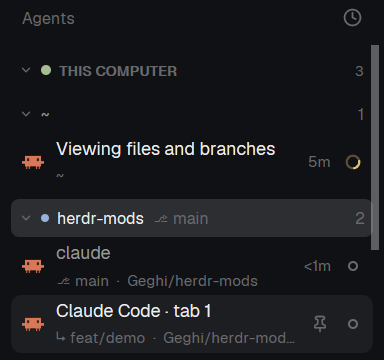
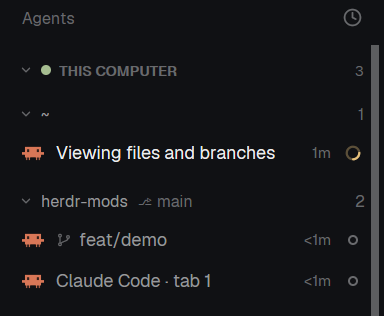
agents-by-repo: one line per agent, named after its branch; sync by copying

diff --git a/agents-by-repo/mods/my-agents/main.js b/agents-by-repo/mods/my-agents/main.js
@@ -423,20 +423,21 @@ export default class Agents extends View {
           cx.notify();
         })
         .child(svg(`mods/workspace-chrome/${isPinned ? "pin-off" : "pin"}.svg`).size(13));
-      // Line 1: what the agent is on (its tab or title). Line 2: where (branch · folder),
-      // with the space name too in the Pinned group, which has no space header.
+      // One line: the agent's branch when it is on one other than main/master, else its tab or title.
+      // The rest (title, space, folder) is in the tooltip.
       const pane = paneById.get(a.pane), sp = spaceById.get(a.space);
       const raw = label(a);
-      const name = /^\d+$/.test(raw) ? `${a.program?.name || "Agent"} · tab ${raw}` : raw || a.program?.name || a.address;
+      const title = /^\d+$/.test(raw) ? `${a.program?.name || "Agent"} · tab ${raw}` : raw || a.program?.name || a.address;
       const branch = pane?.branch || sp?.branch || "";
+      const onBranch = Boolean(branch) && !/^(main|master)$/.test(branch);
+      const name = onBranch ? branch : title;
       const folder = shortFolder(pane?.cwd || sp?.folder);
-      const fam = this.family?.info.get(a.space), mainId = fam ? this.family.mainOf.get(fam.repo) : a.space;
-      const sub = !isPinned && mainId && a.space !== mainId ? (sp?.name || a.space_name || "") : "";
-      const where = [isPinned ? (a.space_name || "") : "", sub ? `↳ ${sub}` : "", branch && branch !== sub ? `⎇ ${branch}` : "", folder].filter(Boolean).join("  ·  ");
+      const where = [onBranch ? title : "", a.space_name || "", branch ? `⎇ ${branch}` : "", folder].filter(Boolean).join("  ·  ");
       return h_flex()
         .id(`ag-${a.address}`)
+        .tooltip(where)
         .px(8)
-        .h(42)
+        .h(30)
         .flex_none()
         .rounded(8)
         .items_center()
@@ -456,9 +457,9 @@ export default class Agents extends View {
             this.folded.has(a.address) ? this.folded.delete(a.address) : this.folded.add(a.address);
             cx.notify();
           })).child(pic)))
-        .child(v_flex().flex_1().min_w(0).gap(1).items_stretch()
-          .child(div().w_full().min_w(0).truncate().text_size(12.8).text_color(idle ? t.muted : t.foreground).child(name))
-          .when(Boolean(where), el => el.child(div().w_full().min_w(0).truncate().text_size(11).text_color(t.dim).child(where))))
+        .child(h_flex().flex_1().min_w(0).gap(5).items_center()
+          .when(onBranch, el => el.child(svg("mods/workspace-chrome/branch.svg").size(12).flex_none().text_color(t.dim)))
+          .child(div().min_w(0).truncate().text_size(12.8).text_color(idle ? t.muted : t.foreground).child(name)))
         .when(subs.length > 0, el => el.child(fold(a, subs)))
         .when(this.hovered === a.address, el => el.child(pin))
         .when(this.hovered !== a.address && Boolean(when), el => el.child(div().flex_none().text_size(11).text_color(t.dim).child(duration(now - when))))

diff --git a/agents-by-repo/RECIPE.md b/agents-by-repo/RECIPE.md
@@ -1,7 +1,7 @@
 # Agents by repo
 
 The agents list, grouped so you always know what each agent is working on: by machine, then by
-the main repository, with the worktree and branch of each agent on its second line.
+the main repository, one compact line per agent named after the branch it is on.
 
 ![Agents by repo](preview.png)
 
@@ -12,10 +12,10 @@ the main repository, with the worktree and branch of each agent on its second li
   status.
 - **Project headers** under each machine: the main repo's name (the main checkout, not the worktree),
   its branch and the agent count. Spaces that aren't in a git repo get their own header.
-- **Agent rows**, two lines:
-  - first line: the agent icon, its title, how long it has been in its state, and a status dot
-    (working, done, blocked, idle);
-  - second line, dimmed: `↳ worktree-space · ⎇ branch · parent/folder`.
+- **Agent rows**, one line, 30 px: the agent icon, then its branch with a ⎇ icon when the agent's
+  pane is on a branch other than `main`/`master`, else its tab or title. On the right, how long it
+  has been in its state and a status dot (working, done, blocked, idle). Hovering shows a tooltip
+  with title · space · branch · folder.
 - A sort menu (clock icon): "Most urgent first" (blocked and done on top) or "Space order".
 
 ## How it behaves
@@ -32,7 +32,7 @@ the main repository, with the worktree and branch of each agent on its second li
 ## Built from
 
 - A clone of herdr's shipped `agents` mod (`mod.json` keeps `cloned_from`). The changes are in
-  `render` (machine and project grouping, the second line) plus `repoOf`, `groupSpace`, `familyOf`.
+  `render` (machine and project grouping, the one-line rows) plus `repoOf`, `groupSpace`, `familyOf`.
 - `mod.json`: `"place": "none"`. Put it in your layout in place of the `agents` block
   (`"mod": "agents"` → `"mod": "my-agents"`).
 
@@ -40,10 +40,11 @@ the main repository, with the worktree and branch of each agent on its second li
 
 - Runs `git` in each space's folder, on that space's machine.
 - A machine that's away keeps its last known grouping until it answers again.
-- Icons come from the shipped `workspace-chrome` mod (`mods/workspace-chrome/chevron-*.svg`).
+- Icons come from the shipped `workspace-chrome` mod (`chevron-*.svg`, `branch.svg`).
 
 ## Done when
 
 - With agents on two machines, each machine has its own header.
-- An agent in a worktree of repo X shows under X's header with `↳ <worktree>` on its second line.
+- An agent in a worktree of repo X shows under X's header, named after the worktree's branch.
+- An agent on `main` shows its tab name instead.
 - Folding a machine hides its projects and agents.

diff --git a/README.md b/README.md
@@ -17,9 +17,10 @@ Tell your agent:
 ## Keeping several machines in sync
 
 `sync/` has the scripts used to keep these mods identical on a Windows and a Linux machine.
-Clone the repo, link each `mods/<name>` folder into `~/.config/herdr-app/mods/` (a junction on
-Windows, a symlink on Linux), then run `sync/herdr-sync.ps1` or `sync/herdr-sync.sh` every few
-minutes. They commit local changes, `pull --rebase` and push. On a conflict they stop and write
-`sync/last-error.log` instead of pushing.
+Clone the repo on each machine and run `sync/herdr-sync.ps1` or `sync/herdr-sync.sh` every few
+minutes. They copy the live mods from `~/.config/herdr-app/mods` into the repo, commit,
+`pull --rebase` and push, then copy the result back so herdr hot-reloads it. (Linking the folders
+instead doesn't work: herdr's hot reload doesn't see changes behind a junction or symlink.)
+On a conflict they stop and write `sync/last-error.log` instead of pushing.
 
 The screenshots in each folder are taken from this repository.
